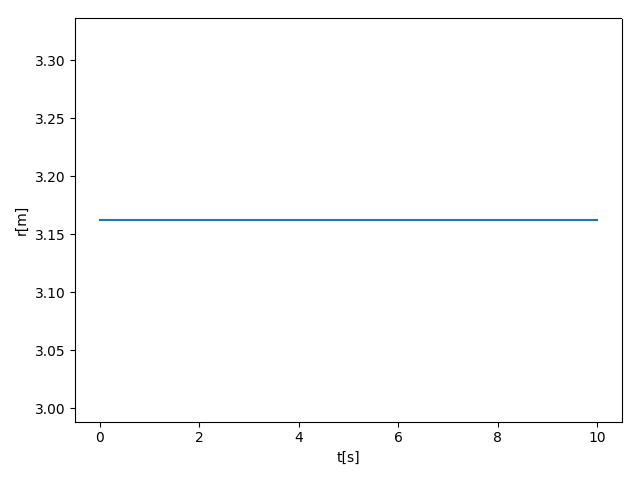
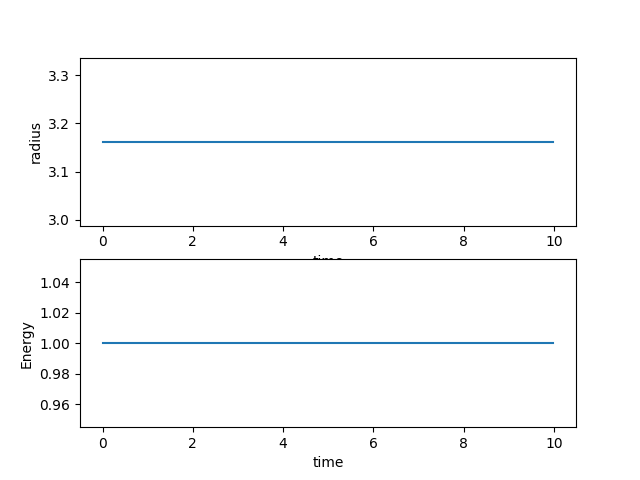
added codes

diff --git a/doc/src/Homeworks/hw7/Program/TwodimSolver.py b/doc/src/Homeworks/hw7/Program/TwodimSolver.py
@@ -32,26 +32,28 @@ DeltaT = 0.01
 #set up arrays 
 tfinal = 10.0
 n = ceil(tfinal/DeltaT)
-# set up arrays for t, a, v, and x
+# set up arrays
 t = np.zeros(n)
 v = np.zeros((n,2))
 r = np.zeros((n,2))
+radius = np.zeros(n)
 # Constants of the model
 k = 0.1   # spring constant
 m = 0.1   # mass, you can change these
-omega02 = k/m  # Frequency
+omega02 = sqrt(k/m)  # Frequency
 AngMom = 1.0  #  The angular momentum
 rmin = (AngMom*AngMom/k/m)**0.25
 # Initial conditions as compact 2-dimensional arrays
-x0 =rmin*0.5; y0 = sqrt(rmin*rmin-x0*x0)
+#x0 =rmin*0.5; y0 = sqrt(rmin*rmin-x0*x0)
+x0 = 1.0; y0= 1.0
 r0 = np.array([x0,y0]) 
 v0 = np.array([0.0,0.0])
 r[0] = r0
 v[0] = v0
 # Start integrating using the Velocity-Verlet  method
 for i in range(n-1):
-    # Set up forces, define rabs first
-    a =  -r[i]*omega02
+    # Set up the acceleration
+    a =  -r[i]*omega02  
     # update velocity, time and position using the Velocity-Verlet method
     r[i+1] = r[i] + DeltaT*v[i]+0.5*(DeltaT**2)*a
     anew = -r[i+1]*omega02  
@@ -59,10 +61,18 @@ for i in range(n-1):
     t[i+1] = t[i] + DeltaT
 # Plot position as function of time
 radius = np.sqrt(r[:,0]**2+r[:,1]**2)
-fig, ax = plt.subplots()
-ax.set_xlabel('t[s]')
-ax.set_ylabel('r*r[m2]')
-ax.plot(t,r[:,0]**2+r[:,1]**2)
+fig, ax = plt.subplots(3,1)
+ax[0].set_xlabel('time')
+ax[0].set_ylabel('radius squared')
+ax[0].plot(t,r[:,0]**2+r[:,1]**2)
+ax[1].set_xlabel('time')
+ax[1].set_ylabel('x position')
+ax[1].plot(t,r[:,0])
+ax[2].set_xlabel('time')
+ax[2].set_ylabel('y position')
+ax[2].plot(t,r[:,1])
+
 fig.tight_layout()
 save_fig("2DimHOVV")
 plt.show()
+

diff --git a/doc/src/Homeworks/hw7/Program/RadialSolver.py b/doc/src/Homeworks/hw7/Program/RadialSolver.py
@@ -36,32 +36,42 @@ n = ceil(tfinal/DeltaT)
 t = np.zeros(n)
 v = np.zeros(n)
 r = np.zeros(n)
+E = np.zeros(n)
 # Constants of the model
-k = 0.1   # spring constant
-m = 0.1   # mass, you can change these
-omega02 = k/m  # Frequency
 AngMom = 1.0  #  The angular momentum
-c = AngMom*AngMom/(m*m)
+m = 0.1
+k = 0.1
+omega02 = k/m
+c1 = AngMom*AngMom/(m*m)
+c2 = AngMom*AngMom/m
+rmin = (AngMom*AngMom/k/m)**0.25
 # Initial conditions
-r0 = (AngMom*AngMom/k/m)**0.25
+r0 = rmin
 v0 = 0.0
 r[0] = r0
 v[0] = v0
-
+E[0] = 0.5*m*v0*v0+0.5*k*r0*r0+0.5*c2/(r0*r0)
 # Start integrating using the Velocity-Verlet  method
 for i in range(n-1):
-    # Set up forces, define rabs first
-    a =  -r[i]*omega02+c/(r[i]**3)  # you may need to change this
+    # Set up acceleration
+    a = -r[i]*omega02+c1/(r[i]**3)    
     # update velocity, time and position using the Velocity-Verlet method
     r[i+1] = r[i] + DeltaT*v[i]+0.5*(DeltaT**2)*a
-    anew = -r[i+1]*omega02+c/(r[i+1]**3)  
+    anew = -r[i+1]*omega02+c1/(r[i+1]**3)
     v[i+1] = v[i] + 0.5*DeltaT*(a+anew)
     t[i+1] = t[i] + DeltaT
-# Plot position as function of time
-fig, ax = plt.subplots()
-ax.set_xlabel('t[s]')
-ax.set_ylabel('r[m]')
-ax.plot(t,r)
-fig.tight_layout()
+    E[i+1] = 0.5*m*v[i+1]*v[i+1]+0.5*k*r[i+1]*r[i+1]+0.5*c2/(r[i+1]*r[i+1])
+    # Plot position as function of time
+fig, ax = plt.subplots(2,1)
+ax[0].set_xlabel('time')
+ax[0].set_ylabel('radius')
+ax[0].plot(t,r)
+ax[1].set_xlabel('time')
+ax[1].set_ylabel('Energy')
+ax[1].plot(t,E)
 save_fig("RadialHOVV")
 plt.show()
+
+
+
+
